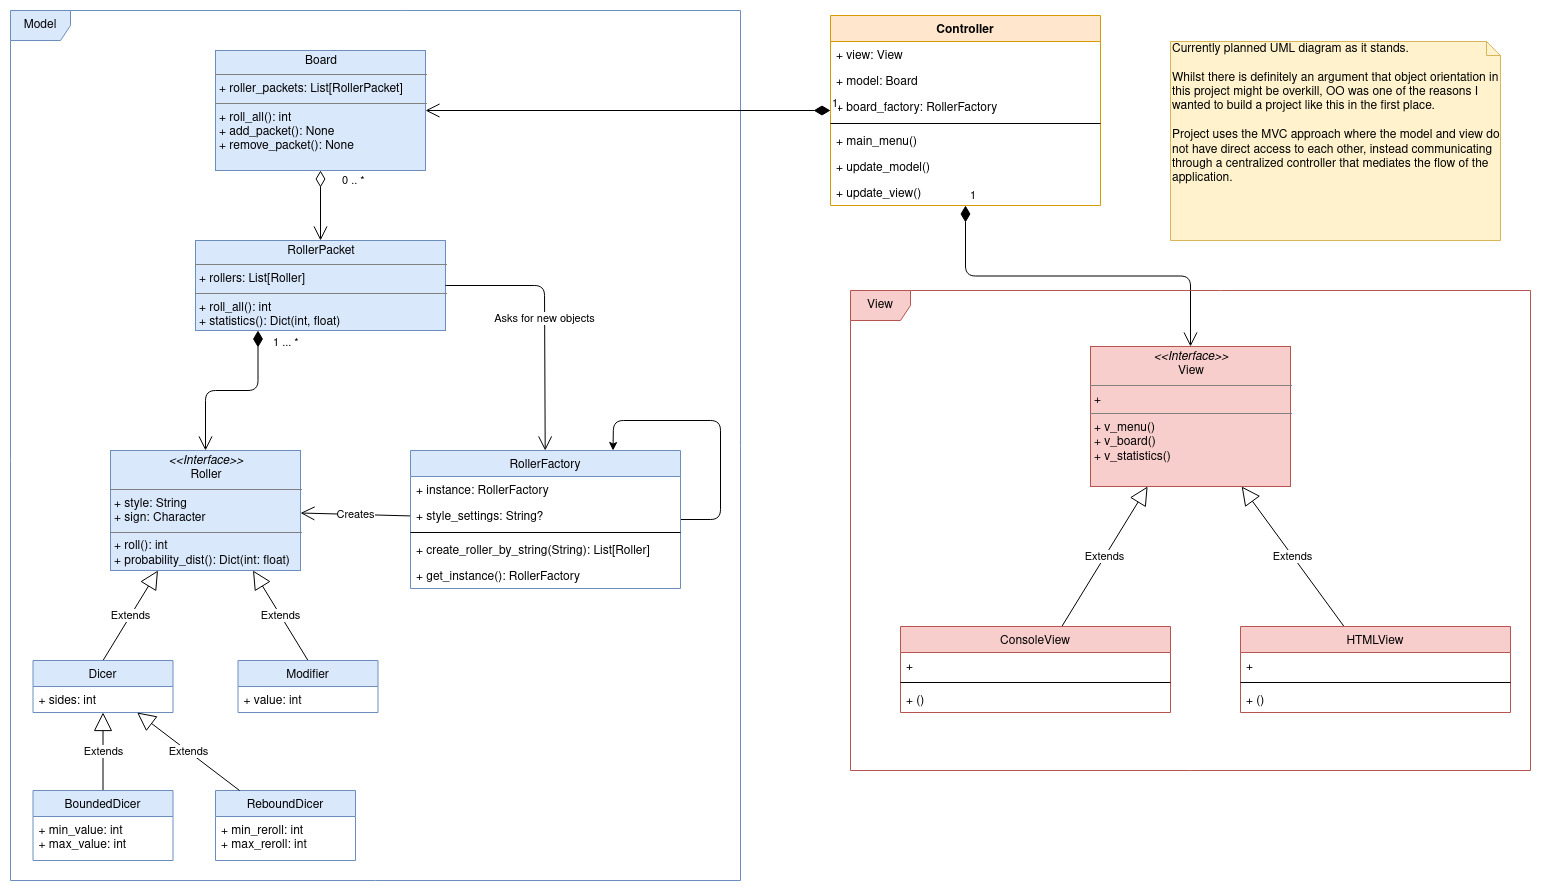
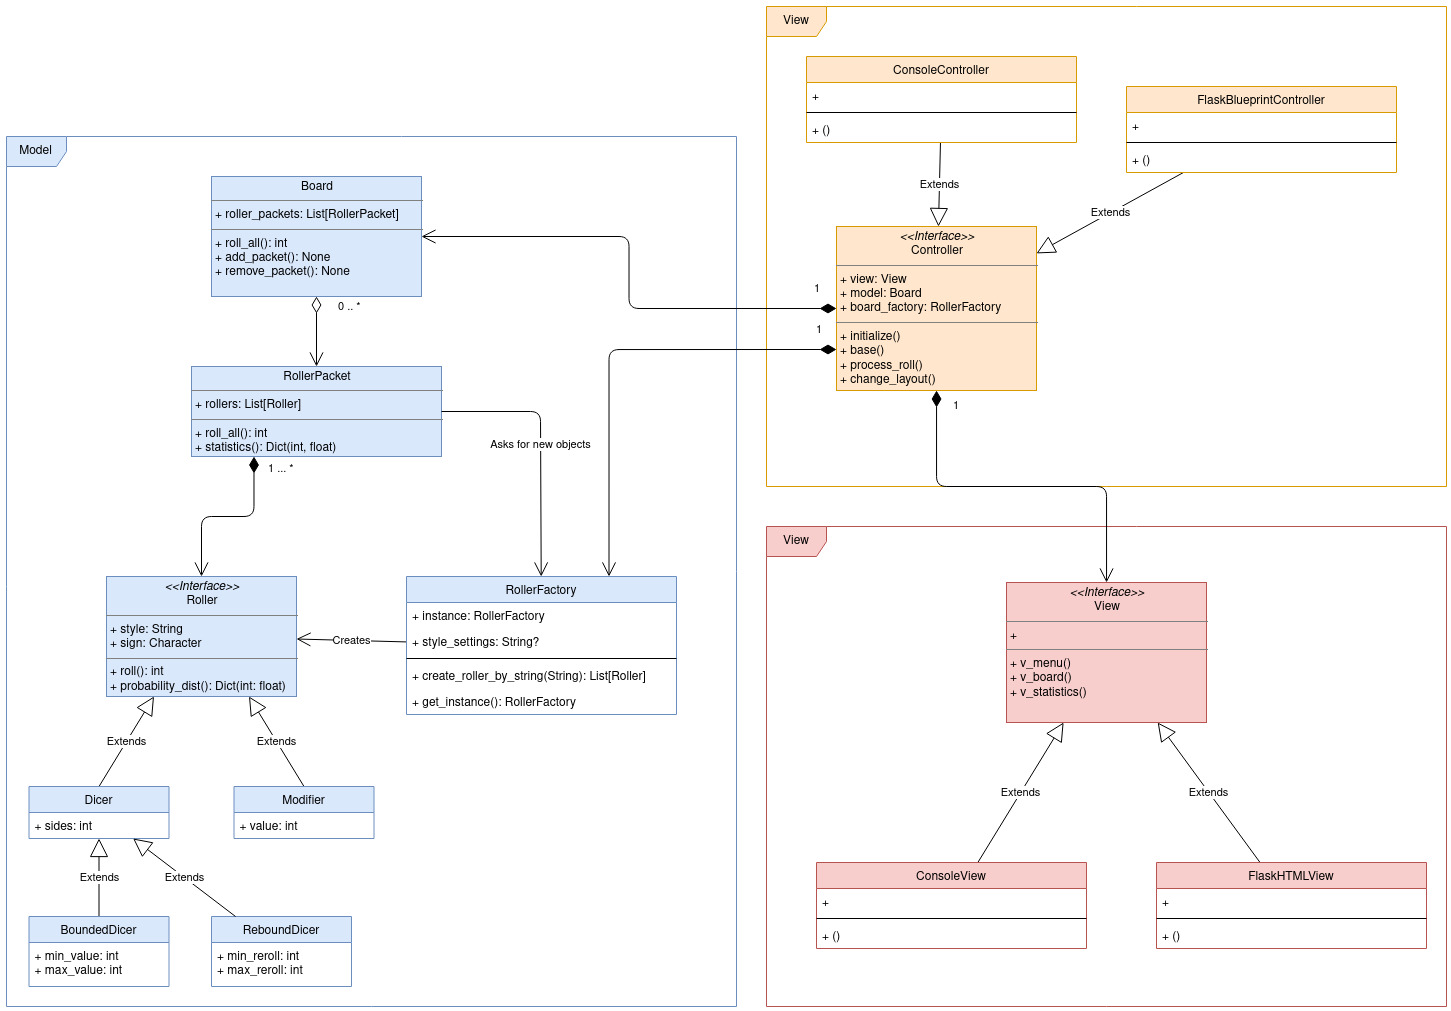
partial progress on impl flask layout

diff --git a/dice-roller/__init__.py b/dice-roller/__init__.py
@@ -1,0 +1,54 @@
+from flask import Flask
+
+def create_app(test_config=None):
+    app = Flask(__name__, instance_relative_config=True)
+
+    @app.route('/')
+    def base():
+        from model.board import Board
+        from model.roller_factory import RollerFactory
+
+        r_str = ""
+
+        b = Board()
+        rf = RollerFactory()
+
+        rp_str = "2d5 + 1d20 - 17 - 2d2 + 1"
+
+        b.add_packet(rp_str, rf)
+
+        r_str += "----------------------------------------\n"
+        r_str += "self.roller_packets: \n"
+        r_str += "\tlen: " + str(len(b.roller_packets)) + "\n"
+        r_str += "----------------------------------------\n\n"
+
+        y = b.roll_all()
+
+        for i in y:
+            r_str += str(type(i)) + "\t" + str(i) + "\n\n"
+
+        return r_str
+
+    return app
+
+if __name__ == '__main__':
+    print(__name__, __package__)
+    from model.board import Board
+    from model.roller_factory import RollerFactory
+
+    b = Board()
+    rf = RollerFactory()
+
+    rp_str = input("\n>")
+
+    b.add_packet(rp_str, rf)
+
+    print("----------------------------------------")
+    print("self.roller_packets: ")
+    print("\tlen: ", len(b.roller_packets))
+    print("----------------------------------------")
+
+    y = b.roll_all()
+
+    for i in y:
+        print(type(i), "\t", i, end="\n\n")
